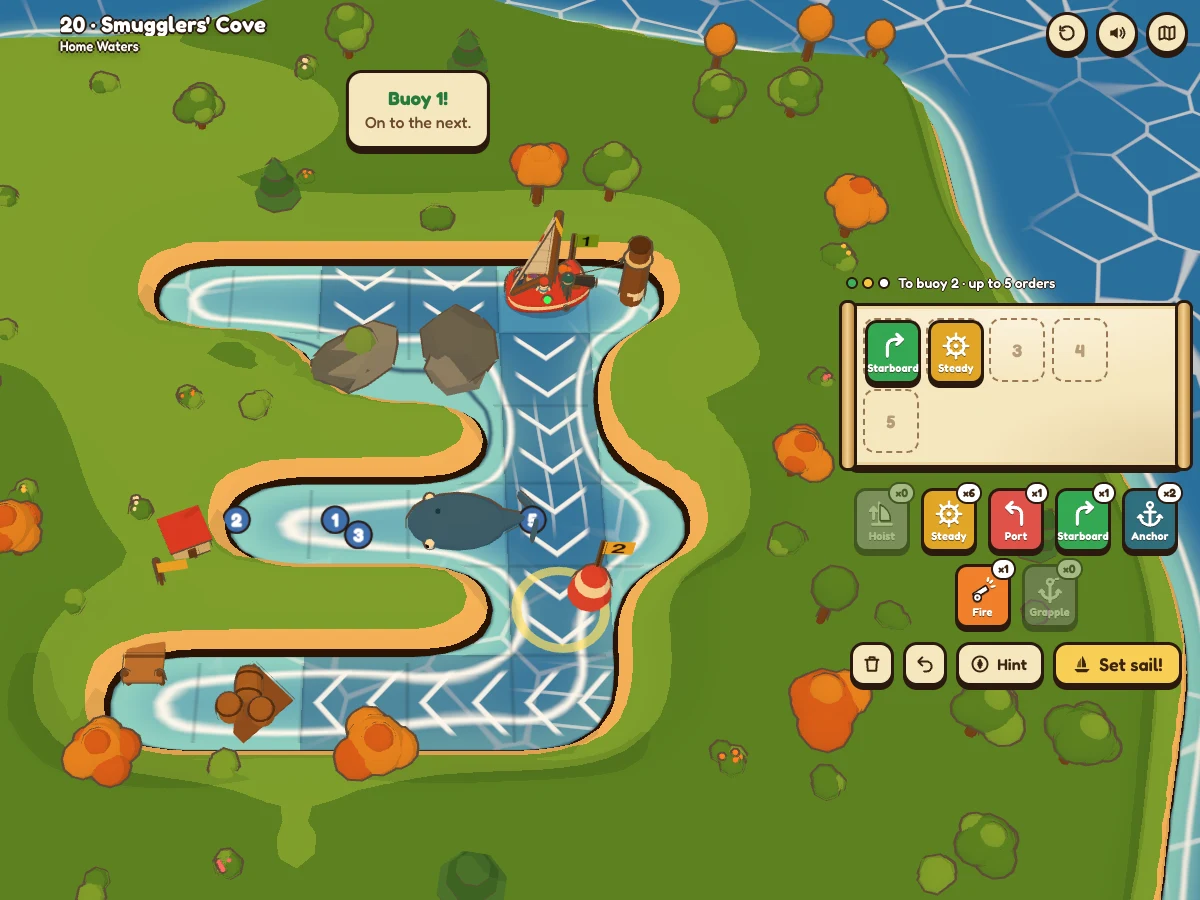
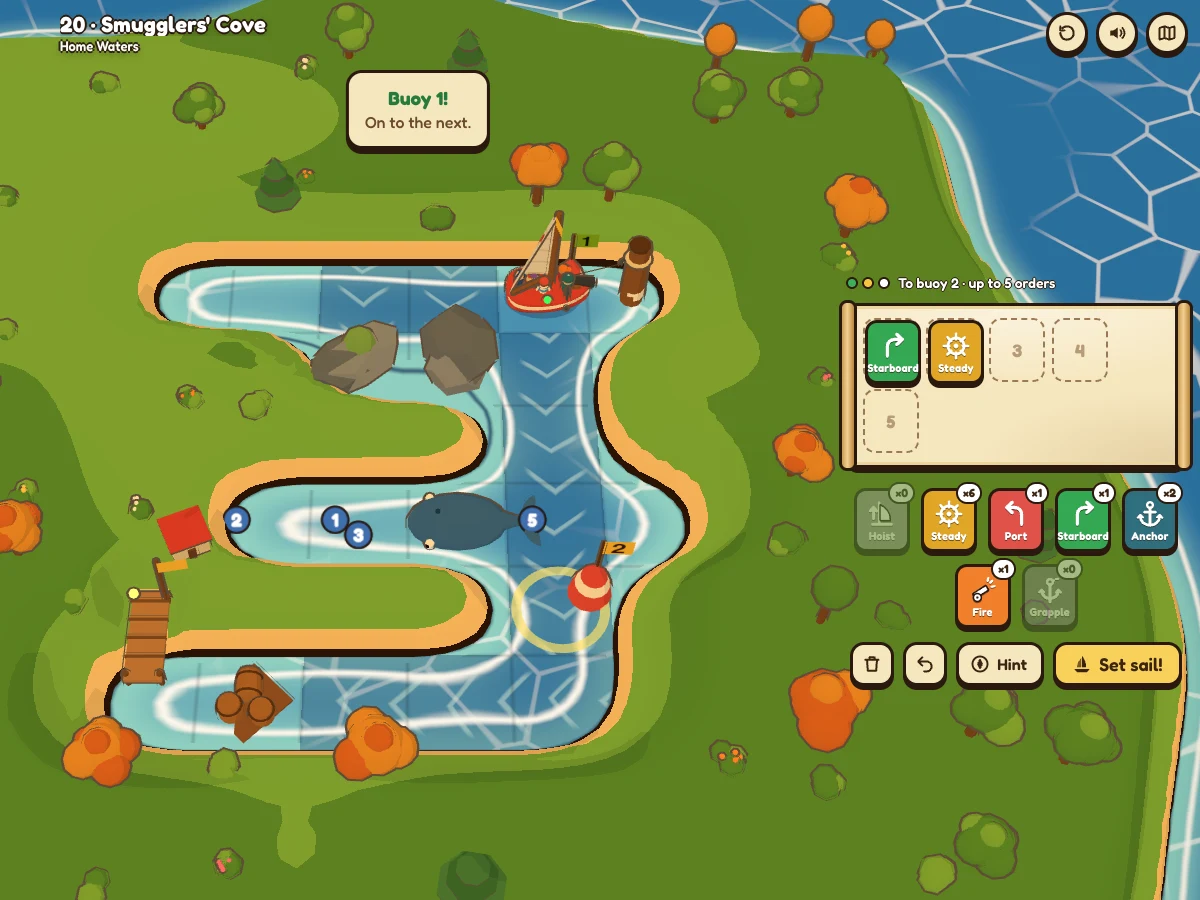
Sail: whale and shark tails that grow out of their bodies
- The whale's tail was a thin cone stuck on its back end, pivoting at the
  body's surface so it opened a gap as it swung, with a flat square-edged
  slab for flukes. Now its body tapers into a tail stock that starts well
  inside it, ending in a pair of swept-back flukes rounded at every edge, and
  the flukes beat mostly up and down.
- The shark's tail was a flat triangle floating behind it. Now a stock runs
  out of the back of the body, its top just breaking the surface, to a
  rounded crescent tail whose tall upper lobe stands out of the water; the
  dark shape under the water reaches under it too.
- New preview.

diff --git a/sail/models.js b/sail/models.js
@@ -26,6 +26,13 @@ export const noLine = m => { m.userData.outlineParameters = { visible: false }; 
 const mesh = (geo, mat, x = 0, y = 0, z = 0) => { const m = new THREE.Mesh(geo, mat); m.position.set(x, y, z); return m; };
 
 /* ---------- little shapes ---------- */
+// A tail stock: round, easing from radius r0 at the origin down to r1 at len along +z, closed at the thin end.
+function taper(r0, r1, len) {
+  const pts = [];
+  for (let i = 0; i <= 10; i++) { const t = i / 10; pts.push(new THREE.Vector2(r1 + (r0 - r1) * (.5 + .5 * Math.cos(Math.PI * t)), t * len)); }
+  pts.push(new THREE.Vector2(0, len + r1 * .6));
+  return new THREE.LatheGeometry(pts, 12).rotateX(Math.PI / 2);
+}
 function barrelGeo(r = .12, h = .3) {
   const pts = [];
   for (let i = 0; i <= 8; i++) { const t = i / 8, y = (t - .5) * h; pts.push(new THREE.Vector2(r * (.82 + .18 * Math.sin(t * Math.PI)), y)); }
@@ -203,10 +210,17 @@ export function makeWhale(color = '#3d6fae') {
   const blue = toon(color), belly = toon('#d9e6ef');
   const b = mesh(new THREE.SphereGeometry(.34, 18, 12), blue, 0, 0, 0); b.scale.set(.95, .62, 1.5); body.add(b);
   const bl = mesh(new THREE.SphereGeometry(.34, 16, 10), belly, 0, -.06, -.06); bl.scale.set(.8, .5, 1.25); body.add(bl);
-  const tail = new THREE.Group(); tail.position.set(0, .05, .5); body.add(tail);
-  const stalk = mesh(new THREE.ConeGeometry(.12, .34, 10), blue, 0, 0, .12); stalk.rotation.x = Math.PI / 2; tail.add(stalk);
-  const fl = new THREE.Shape(); fl.moveTo(0, 0); fl.bezierCurveTo(.12, .05, .26, .16, .3, .1); fl.bezierCurveTo(.2, .02, .1, -.02, 0, -.02); fl.bezierCurveTo(-.1, -.02, -.2, .02, -.3, .1); fl.bezierCurveTo(-.26, .16, -.12, .05, 0, 0);
-  const flukes = mesh(new THREE.ExtrudeGeometry(fl, { depth: .03, bevelEnabled: false }), blue, 0, 0, .3); flukes.rotation.x = -Math.PI / 2; tail.add(flukes);
+  // the tail: a stock tapering out of the back of the body (from well inside it, so it stays joined however it
+  // sways) and a pair of flukes on the end, swept back and rounded at every edge
+  const tail = new THREE.Group(); tail.position.set(0, .03, .3); body.add(tail);
+  const stock = mesh(taper(.14, .045, .4), blue); stock.scale.y = .8; tail.add(stock);
+  const fl = new THREE.Shape();
+  fl.moveTo(0, -.04);
+  fl.bezierCurveTo(.1, -.03, .23, .01, .3, .12); fl.bezierCurveTo(.21, .13, .09, .09, 0, .11);
+  fl.bezierCurveTo(-.09, .09, -.21, .13, -.3, .12); fl.bezierCurveTo(-.23, .01, -.1, -.03, 0, -.04);
+  const fg = new THREE.ExtrudeGeometry(fl, { depth: .012, bevelEnabled: true, bevelThickness: .016, bevelSize: .014, bevelSegments: 3, curveSegments: 14 });
+  fg.translate(0, 0, -.006).rotateX(Math.PI / 2);
+  tail.add(mesh(fg, blue, 0, 0, .4));
   const eyeW = toon('#ffffff'), eyeB = toon('#10141c', { line: 0 });
   for (const sd of [-1, 1]) {
     const e = mesh(new THREE.SphereGeometry(.05, 8, 6), eyeW, sd * .27, .03, -.28); body.add(e);
@@ -223,15 +237,24 @@ export function makeShark() {
   const grey = toon('#8d9aa8'), pale = toon('#e8edf2');
   // most of it under the water: a dark shape, then its back, fin and tail cutting the surface
   const under = mesh(new THREE.SphereGeometry(.3, 14, 8), noLine(new THREE.MeshBasicMaterial({ color: '#06203a', transparent: true, opacity: .55, depthWrite: false })), 0, .01, 0);
-  under.scale.set(.75, .05, 1.7); under.renderOrder = 1;
+  under.scale.set(.75, .05, 2); under.position.z = .06; under.renderOrder = 1;
   g.add(under);
   const top = mesh(new THREE.SphereGeometry(.3, 14, 8), grey, 0, -.06, 0); top.scale.set(.62, .42, 1.45); body.add(top);
   const fin = new THREE.Shape(); fin.moveTo(-.2, 0); fin.quadraticCurveTo(-.03, .14, .03, .48); fin.quadraticCurveTo(.1, .16, .22, 0); fin.lineTo(-.2, 0);
   const finM = mesh(new THREE.ExtrudeGeometry(fin, { depth: .05, bevelEnabled: true, bevelSize: .018, bevelThickness: .014, bevelSegments: 2 }), grey, -.025, .04, .02);
   finM.rotation.y = Math.PI / 2; body.add(finM);
-  const tail = new THREE.Group(); tail.position.set(0, 0, .4); body.add(tail);
-  const tf = new THREE.Shape(); tf.moveTo(0, 0); tf.quadraticCurveTo(.05, .12, .02, .24); tf.quadraticCurveTo(.1, .1, .18, .02); tf.lineTo(0, 0);
-  const tailFin = mesh(new THREE.ExtrudeGeometry(tf, { depth: .03, bevelEnabled: false }), grey, 0, -.02, 0); tailFin.rotation.y = Math.PI / 2; tail.add(tailFin);
+  // the tail: a stock tapering out of the back of the body, its top just breaking the surface, and a crescent tail on
+  // the end with its tall upper lobe standing out of the water
+  const tail = new THREE.Group(); tail.position.set(0, -.015, .18); body.add(tail);
+  const stock = mesh(taper(.07, .03, .32), grey); stock.scale.x = .75; tail.add(stock);
+  const tf = new THREE.Shape();
+  tf.moveTo(-.02, .03);
+  tf.bezierCurveTo(.03, .1, .07, .22, .15, .32); tf.bezierCurveTo(.12, .2, .09, .1, .08, .02);
+  tf.bezierCurveTo(.1, -.04, .12, -.08, .14, -.14); tf.bezierCurveTo(.07, -.1, .02, -.06, -.02, -.03);
+  tf.lineTo(-.02, .03);
+  const tg = new THREE.ExtrudeGeometry(tf, { depth: .01, bevelEnabled: true, bevelThickness: .012, bevelSize: .01, bevelSegments: 3, curveSegments: 12 });
+  tg.translate(0, 0, -.005).rotateY(-Math.PI / 2);
+  tail.add(mesh(tg, grey, 0, 0, .32));
   body.add(mesh(new THREE.SphereGeometry(.2, 10, 6), pale, 0, -.2, -.1));
   // a white tip to the fin, and eyes
   const tip = mesh(new THREE.SphereGeometry(.035, 6, 5), pale, 0, .5, .03); body.add(tip);

diff --git a/sail/scene.js b/sail/scene.js
@@ -669,8 +669,9 @@ export class Sea {
     this.beasts?.forEach((m, j) => {
       const u = m.userData;
       u.body.position.y = (u.kind === 'whale' ? .02 : 0) + Math.sin(t * 1.7 + j) * .03 + (u.dive || 0);
-      u.tail.rotation.y = Math.sin(t * (u.kind === 'shark' ? 6 : 2.5) + j) * .35;
-      if (u.kind === 'whale') { u.tail.rotation.x = Math.sin(t * 2.5 + j) * .15; u.spoutT = (u.spoutT ?? Math.random() * 4) - dt; if (u.spoutT < 0 && m.visible) { u.spoutT = 3 + Math.random() * 3; this.spout(m); } }
+      // a shark sweeps its tail side to side; a whale beats its flukes mostly up and down
+      u.tail.rotation.y = Math.sin(t * (u.kind === 'shark' ? 6 : 2.5) + j) * (u.kind === 'shark' ? .35 : .12);
+      if (u.kind === 'whale') { u.tail.rotation.x = Math.sin(t * 2.5 + j + .6) * .16; u.spoutT = (u.spoutT ?? Math.random() * 4) - dt; if (u.spoutT < 0 && m.visible) { u.spoutT = 3 + Math.random() * 3; this.spout(m); } }
     });
     // the active mark's ring breathes
     if (this.markRing.visible) { const k = (t * .8) % 1; this.markRing.scale.setScalar(.8 + k * .7); this.markRing.material.opacity = .9 * (1 - k); }
